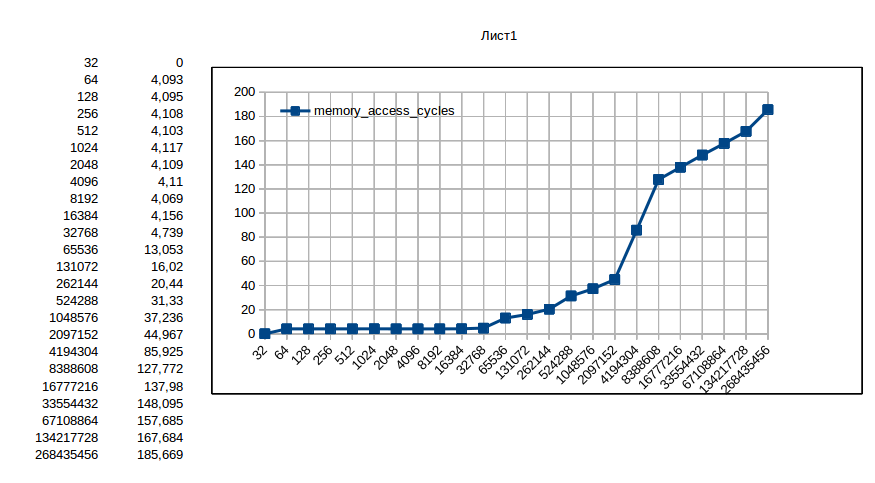
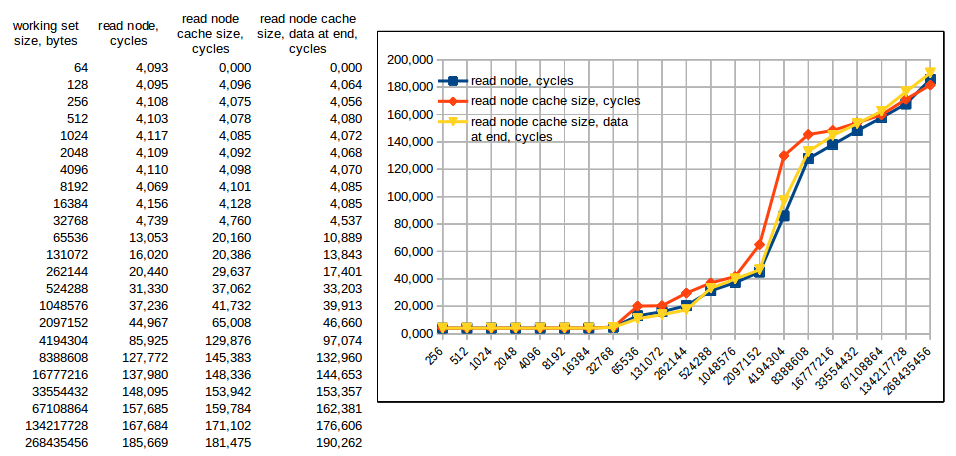
added a couple of tests with node equal to cache size

Changed region(s): [[0.0, 0.0307, 0.9874, 0.9825], [0.4011, 0.0614, 0.9874, 0.0921]]

diff --git a/src/main.cpp b/src/main.cpp
@@ -26,8 +26,20 @@ inline std::uint64_t rdtsc() {
 struct node {
     node* m_next;
     node* m_prev;
+#ifdef TEST_N3
+    char m_padding[64 - sizeof(node*) * 2 - sizeof(std::uint32_t)];
     std::uint32_t m_data;
+#elif defined(TEST_N2)
+    std::uint32_t m_data;
+    char m_padding[64 - sizeof(node*) * 2 - sizeof(std::uint32_t)];
+#else // TEST_N1
+    std::uint32_t m_data;
+#endif
 };
+
+#if defined(TEST_N3) || defined(TEST_N2)
+static_assert(sizeof(node) == 64, "sizeof(node)");
+#endif
 
 // Swap locations of two nodes in a double-linked list
 void swap(node& n1, node& n2) {
